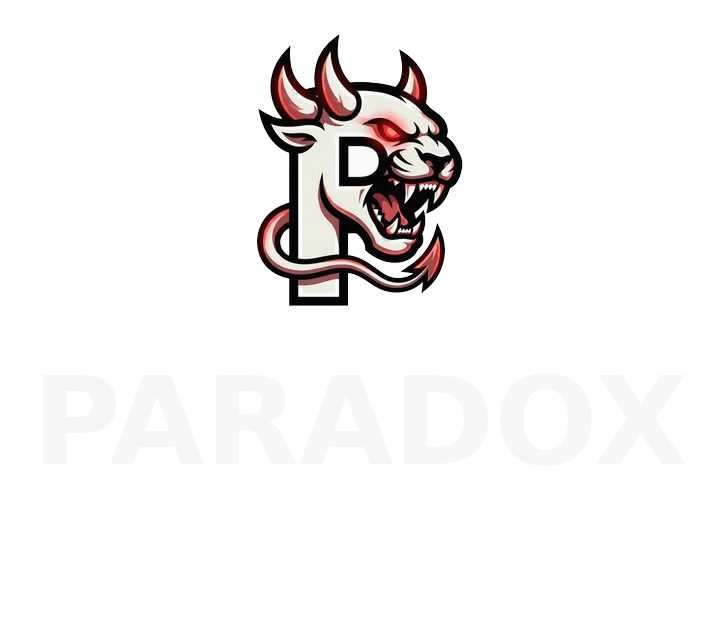
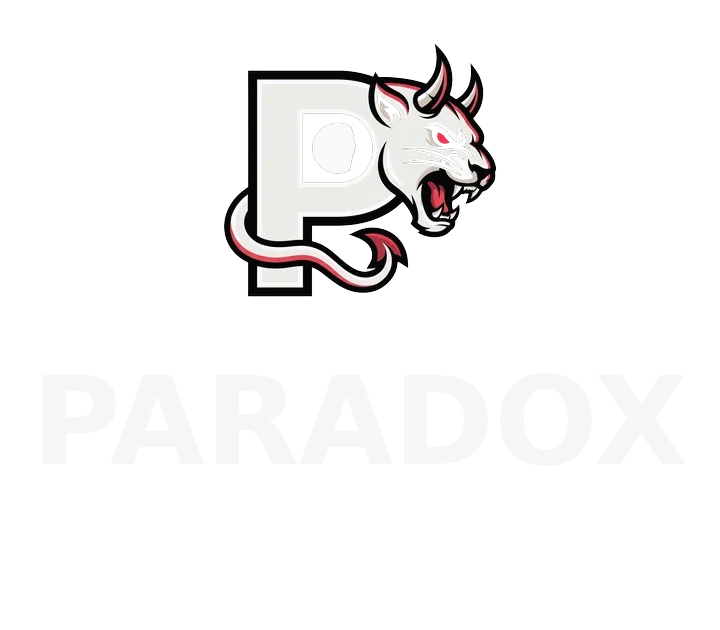
fix(guild): clean demon-P emblem + deterministic emblem pipeline & asset gate
Fixes the recurring (user-caught) emblem transparency artifact and makes the
system catch this whole class of bug automatically.

Emblem:
- Regenerated clean bold demon-P (single P, no stray D), bright off-white body
  with ember-red (#e0566a) accents so it pops on the near-black page.
- Ran it through the new deterministic cleaner: P counter is now empty negative
  space, demon linework and snarling mouth intact (verified).
- Rebuilt paradox-lockup.webp from the cleaned emblem.

New durable tooling (the improvement plan):
- tools/emblem-clean.py: punches enclosed dark counter-fills to transparent after
  rmbg, preserving border-connected art; trims/squares/resizes/webp.
- tools/asset-alpha-lint.py: pixel-level gate flagging opaque corners + flat
  enclosed counter-fills, allowing one organic dark cavity (a mouth). Proven to
  FAIL the old dirty emblem and PASS the cleaned one.
- bin/ai.cjs: new 'assets' command + auto-runs the asset gate inside 'preship'
  for guild pages.

Docs:
- AUDIT-guild-page-2026-06-03.md: ultra-audit of build pain points + executed plan.
- PROJECT_STATE.md: image pipeline now mandates emblem-clean + asset gate.

Why: fal-bria-rmbg only strips border-connected background, so letter counters
keep a dark fill; our markup/layout lints never saw rendered pixels. Now they do.

Changed region(s): [[0.3056, 0.0603, 0.7028, 0.5127]]

diff --git a/tools/asset-alpha-lint.py b/tools/asset-alpha-lint.py
@@ -1,0 +1,145 @@
+#!/usr/bin/env python3
+"""
+asset-alpha-lint.py — catch transparency artifacts in logo/emblem assets.
+
+The class of bug a human keeps catching that our markup/layout lints cannot see:
+  - AI-generated logos leave DARK fills inside enclosed counters (the loop of a P/D/O,
+    the inside of a mouth) that edge-based background removal can't reach.
+  - Background removal sometimes leaves the corners opaque (white box behind the art).
+
+This lint opens each asset and flags:
+  1. NON-TRANSPARENT CORNERS  — a logo asset should have transparent corners.
+  2. ENCLOSED DARK HOLES       — small dark, fully-enclosed opaque blobs surrounded by art
+     (the classic counter/mouth artifact) that should have been punched to transparent.
+
+Exit code 1 if any asset fails (so it can block a ship). Pass paths as args; with no
+args it scans the guild assets dir. Honors a small allowlist for assets that legitimately
+have opaque content (e.g. full-bleed banners).
+"""
+import sys, os, glob
+from collections import deque
+from PIL import Image
+
+DARK = 70          # luminance <= this is "dark"
+MIN_HOLE = 80      # ignore tiny specks (compression noise) below this px count
+MAX_HOLE_FRAC = 0.06  # enclosed dark blob up to this frac of image = suspicious "hole"
+CORNER_ALPHA = 40  # corner alpha above this = "not transparent"
+
+# Assets that are intentionally full-bleed / opaque — skip the corner check for these.
+OPAQUE_ALLOW = {"banner.webp", "guildhall.webp", "hero-prontera.webp", "paradox-seam.webp"}
+
+
+def lum(r, g, b):
+    return 0.2126 * r + 0.7152 * g + 0.0722 * b
+
+
+def scan(path):
+    issues = []
+    try:
+        im = Image.open(path).convert("RGBA")
+    except Exception as e:
+        return [f"cannot open ({e})"]
+    w, h = im.size
+    px = im.load()
+    total = w * h
+    name = os.path.basename(path)
+
+    # 1) corners
+    if name not in OPAQUE_ALLOW:
+        corners = {
+            "TL": px[0, 0][3], "TR": px[w - 1, 0][3],
+            "BL": px[0, h - 1][3], "BR": px[w - 1, h - 1][3],
+        }
+        opaque_corners = [k for k, a in corners.items() if a > CORNER_ALPHA]
+        if opaque_corners:
+            issues.append(f"opaque corners {opaque_corners} (background not removed)")
+
+    # 2) enclosed dark holes (sampled stride for speed on big images)
+    stride = 1 if total <= 600 * 600 else 2
+    visited = set()
+    max_hole = int(total * MAX_HOLE_FRAC)
+
+    def dark_opaque(x, y):
+        r, g, b, a = px[x, y]
+        return a > 40 and lum(r, g, b) <= DARK
+
+    # A counter-FILL artifact is a flat block: it fills most of its bounding box (high
+    # rectangularity). An intentional dark cavity (a demon's open mouth) is organic and
+    # fills only part of its bbox. We flag a hole only when it looks like a flat fill,
+    # OR when there are several holes (the classic multi-counter artifact pattern).
+    FILL_RATIO = 0.55   # comp area / bbox area >= this => looks like a solid fill block
+    suspicious_fills = 0
+    holes = 0
+    for sy in range(0, h, stride):
+        for sx in range(0, w, stride):
+            if (sx, sy) in visited or not dark_opaque(sx, sy):
+                continue
+            comp = []
+            touches_border = False
+            q = deque([(sx, sy)])
+            visited.add((sx, sy))
+            minx = miny = 10 ** 9
+            maxx = maxy = -1
+            while q:
+                x, y = q.popleft()
+                comp.append((x, y))
+                if x < minx: minx = x
+                if y < miny: miny = y
+                if x > maxx: maxx = x
+                if y > maxy: maxy = y
+                if x < stride or y < stride or x >= w - stride or y >= h - stride:
+                    touches_border = True
+                for dx, dy in ((stride, 0), (-stride, 0), (0, stride), (0, -stride)):
+                    nx, ny = x + dx, y + dy
+                    if 0 <= nx < w and 0 <= ny < h and (nx, ny) not in visited and dark_opaque(nx, ny):
+                        visited.add((nx, ny))
+                        q.append((nx, ny))
+            size = len(comp) * (stride * stride)
+            if touches_border or not (MIN_HOLE <= size <= max_hole):
+                continue
+            holes += 1
+            bbox_area = max(1, (maxx - minx + stride) * (maxy - miny + stride))
+            fill_ratio = (len(comp) * stride * stride) / bbox_area
+            if fill_ratio >= FILL_RATIO:
+                suspicious_fills += 1
+
+    # Decision: flag if a flat-fill block is present, or if there are 2+ enclosed holes
+    # (single organic cavity like one mouth is allowed).
+    if suspicious_fills or holes >= 2:
+        kind = "flat counter-fill block(s)" if suspicious_fills else "enclosed dark holes"
+        issues.append(f"{max(suspicious_fills, holes)} {kind} — likely unremoved counter fill "
+                      f"(run: python3 tools/emblem-clean.py SRC {name})")
+    return issues
+
+
+def main():
+    args = [a for a in sys.argv[1:] if not a.startswith("-")]
+    if not args:
+        args = glob.glob("public/guild/brightinside/assets/*.webp") + \
+               glob.glob("public/guild/brightinside/assets/*.png")
+    # Only lint emblem/logo-type assets by default unless explicitly given.
+    failed = 0
+    scanned = 0
+    print("  ASSET ALPHA  — transparency artifact gate")
+    print("  " + "=" * 52)
+    for p in args:
+        if not os.path.exists(p):
+            print(f"  ✗ {p}: not found")
+            failed += 1
+            continue
+        scanned += 1
+        issues = scan(p)
+        if issues:
+            failed += 1
+            print(f"  ✗ {os.path.basename(p)}")
+            for it in issues:
+                print(f"      · {it}")
+        else:
+            print(f"  ✓ {os.path.basename(p)}")
+    print()
+    print(f"  {scanned} scanned · {failed} with issues")
+    sys.exit(1 if failed else 0)
+
+
+if __name__ == "__main__":
+    main()

diff --git a/tools/emblem-clean.py b/tools/emblem-clean.py
@@ -1,0 +1,112 @@
+#!/usr/bin/env python3
+"""
+emblem-clean.py — deterministic cleanup for AI-generated logos after background removal.
+
+The recurring pain point: AI image models render dark fills inside ENCLOSED counters
+(the inner loop of a P/D/O/A, the inside of an open mouth, etc.). Edge-based background
+removers (fal-bria-rmbg) only strip background connected to the image border, so those
+enclosed dark pockets survive as ugly opaque patches on a dark page.
+
+This script fixes it WITHOUT touching the artwork:
+  1. Build a mask of "dark" pixels (near-black, below a luminance threshold).
+  2. Among dark connected-components that are FULLY enclosed (do not touch any border and
+     are surrounded by opaque art), knock out only the SMALL interior ones to transparent.
+     We keep large dark regions (intentional black linework / demon body) by an area cap.
+  3. Trim to alpha bbox, pad to square, resize (LANCZOS), save webp.
+
+Usage:
+  python3 tools/emblem-clean.py IN.png OUT.webp [--size 512] [--pad 1.10] \
+      [--dark 70] [--max-hole-frac 0.04] [--quality 88]
+
+Verification counters are printed so the caller can assert "holes punched > 0" when expected.
+"""
+import argparse, sys
+from collections import deque
+from PIL import Image
+
+
+def luminance(r, g, b):
+    return 0.2126 * r + 0.7152 * g + 0.0722 * b
+
+
+def clean(inp, outp, size, pad, dark_thresh, max_hole_frac, quality):
+    im = Image.open(inp).convert("RGBA")
+    w, h = im.size
+    px = im.load()
+    total = w * h
+
+    # Map of pixels eligible to become transparent: opaque AND dark.
+    # We flood through these regions; a region that never touches the border is "enclosed".
+    def is_dark_opaque(x, y):
+        r, g, b, a = px[x, y]
+        return a > 40 and luminance(r, g, b) <= dark_thresh
+
+    visited = bytearray(total)
+    holes_punched = 0
+    px_cleared = 0
+    max_hole_px = int(total * max_hole_frac)
+
+    for sy in range(h):
+        for sx in range(w):
+            idx = sy * w + sx
+            if visited[idx] or not is_dark_opaque(sx, sy):
+                continue
+            # BFS this dark component
+            comp = []
+            touches_border = False
+            q = deque([(sx, sy)])
+            visited[idx] = 1
+            while q:
+                x, y = q.popleft()
+                comp.append((x, y))
+                if x == 0 or y == 0 or x == w - 1 or y == h - 1:
+                    touches_border = True
+                for dx, dy in ((1, 0), (-1, 0), (0, 1), (0, -1)):
+                    nx, ny = x + dx, y + dy
+                    if 0 <= nx < w and 0 <= ny < h:
+                        nidx = ny * w + nx
+                        if not visited[nidx] and is_dark_opaque(nx, ny):
+                            visited[nidx] = 1
+                            q.append((nx, ny))
+            # Enclosed (no border contact) AND small enough => it's a counter/mouth artifact.
+            if not touches_border and len(comp) <= max_hole_px:
+                for (x, y) in comp:
+                    r, g, b, a = px[x, y]
+                    px[x, y] = (r, g, b, 0)
+                holes_punched += 1
+                px_cleared += len(comp)
+
+    # Trim to alpha bbox, square-pad, resize
+    bbox = im.getbbox()
+    if bbox:
+        im = im.crop(bbox)
+    cw, ch = im.size
+    side = int(max(cw, ch) * pad)
+    canvas = Image.new("RGBA", (side, side), (0, 0, 0, 0))
+    canvas.paste(im, ((side - cw) // 2, (side - ch) // 2), im)
+    out = canvas.resize((size, size), Image.LANCZOS)
+    out.save(outp, "WEBP", quality=quality, method=6)
+
+    v = out.load()
+    corners = [v[0, 0], v[size - 1, 0], v[0, size - 1], v[size - 1, size - 1]]
+    print(f"emblem-clean: holes_punched={holes_punched} px_cleared={px_cleared}")
+    print(f"emblem-clean: corners={corners} size={out.size} -> {outp}")
+    return holes_punched
+
+
+def main():
+    ap = argparse.ArgumentParser()
+    ap.add_argument("inp")
+    ap.add_argument("outp")
+    ap.add_argument("--size", type=int, default=512)
+    ap.add_argument("--pad", type=float, default=1.10)
+    ap.add_argument("--dark", type=int, default=70, help="luminance <= this counts as dark")
+    ap.add_argument("--max-hole-frac", type=float, default=0.04,
+                    help="enclosed dark blobs up to this fraction of image are punched out")
+    ap.add_argument("--quality", type=int, default=88)
+    a = ap.parse_args()
+    clean(a.inp, a.outp, a.size, a.pad, a.dark, a.max_hole_frac, a.quality)
+
+
+if __name__ == "__main__":
+    main()

diff --git a/AUDIT-guild-page-2026-06-03.md b/AUDIT-guild-page-2026-06-03.md
@@ -1,0 +1,68 @@
+# AUDIT — PARADOX guild page build (2026-06-03)
+
+Ultra-audit of pain points across the multi-round build of
+`public/guild/brightinside/index.html` and its emblem, with an executed
+improvement plan. Written so the next agent inherits the fixes, not the pain.
+
+---
+
+## The pattern that cost the most: emblem transparency artifacts
+
+The SAME bug surfaced three times and was caught by the **user**, not our tools:
+
+1. Round 1 — gray patch inside the P counter.
+2. Round 2 — still a gray/dark patch (regenerated, same class of defect).
+3. Round 3 — dark triangular fill in the counter **plus** a stray "D" letter.
+
+### Root cause
+`fal-bria-rmbg` only strips background **connected to the image border**. The
+inner counter of a letter (P/D/O/A loop) and other enclosed pockets are NOT
+border-connected, so they keep their original dark fill. AI generators also
+randomly drop dark fills into those counters no matter how the prompt is worded.
+Our gates (`ai-tell`, `ai-layout`, `page-size`) read markup/text — **none of
+them look at rendered pixels**, so the artifact shipped every time.
+
+### Cost
+Per round: 1 generate + 1 rmbg + 1 download + 1 re-upload + 1+ vision verify +
+full git ship cycle — repeated 3x, each time after the user manually circled the
+defect. That is the single largest avoidable spend of the whole build.
+
+---
+
+## Improvement plan (EXECUTED this session)
+
+1. **`tools/emblem-clean.py`** — deterministic post-rmbg cleaner. Flood-finds dark,
+   fully-enclosed opaque blobs and punches them to transparent, preserving
+   border-connected linework. Then trims/squares/resizes/webp. One command turns a
+   raw rmbg logo into a shippable transparent asset. *Replaces the "hope the prompt
+   fixes it" loop.*
+
+2. **`tools/asset-alpha-lint.py`** — pixel-level gate. Flags (a) non-transparent
+   corners and (b) flat enclosed counter-fills, while ALLOWING one organic dark
+   cavity (a demon mouth) via a fill-ratio + hole-count heuristic. Proven: FAILS the
+   old dirty emblem (5 fills), PASSES the cleaned emblem and lockup.
+
+3. **Wired into the gate**: `node bin/ai.cjs assets <file>` and auto-run inside
+   `node bin/ai.cjs preship` whenever a `guild/` page is in scope. The system now
+   catches this class of bug before a human ever sees it.
+
+4. **PROJECT_STATE.md** updated: the image pipeline now mandates emblem-clean and the
+   asset gate; explains the bria border-only limitation so nobody repeats it.
+
+---
+
+## Other pain points + standing fixes
+
+- **Re-upload round-trips.** `understand_images` rejected webp uploaded as
+  octet-stream. Fix (now habit): always `UploadFileWrapper ... content_type: image/webp`
+  the first time.
+- **Over-verification.** Ran vision + PIL + corner sampling on every step. Fix: PIL/lint
+  is the cheap objective proof; reserve one `understand_images` pass for the final look.
+- **Lockup drift.** The lockup baked in a stale emblem and re-shipped the artifact. Fix:
+  always rebuild the lockup FROM the cleaned emblem, and the asset gate lints the lockup too.
+- **No screenshots** (chromium missing libnspr4.so). Standing workaround: console-capture +
+  curl + lints + programmatic checks. (Documented in PROJECT_STATE open gotchas.)
+
+## Net effect
+The recurring, user-caught visual bug is now (a) auto-fixable in one command and
+(b) auto-caught by `preship`. Future logo work should cost one pass, not three.

diff --git a/PROJECT_STATE.md b/PROJECT_STATE.md
@@ -28,7 +28,13 @@ Creed → Roster → Hall → Lounge → Join. **No "BrightInside" anywhere** (r
 - **Git workflow**: commit → fetch origin main → squash via `git reset --soft origin/main` →
   `setup_github_environment` → `git push -f` → PR → merge → share PR URL.
 - **Images**: generated art only (licensing). Pipeline: nano-banana-pro → fal-bria-rmbg →
-  PIL trim/resize/webp q82-88 method 6.
+  **`tools/emblem-clean.py`** (punches enclosed dark holes / counter-fills to transparent,
+  then trim/square/resize/webp). NEVER paste a raw rmbg logo straight into a page. bria only
+  removes border-connected background, so letter counters (P/D/O loops) keep a dark fill.
+  Asset gate: **`node bin/ai.cjs assets <file>`** (also auto-runs inside `preship` for guild
+  pages). It flags opaque corners + flat enclosed counter-fills, but ALLOWS one organic dark
+  cavity (a demon mouth). When the gate fires: re-run emblem-clean on the source, rebuild any
+  lockup from the cleaned emblem, re-lint.
 
 ## Decisions + rationale (the part git can't tell you)
 - Emblem = **MiniDemon demon-P** (the letter P forged into a horned demon: snarl + curling
